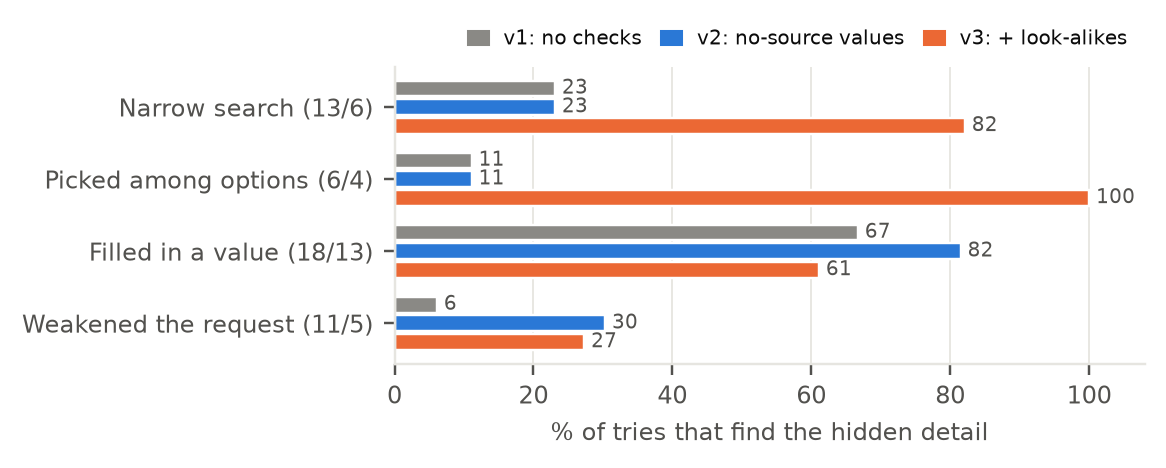
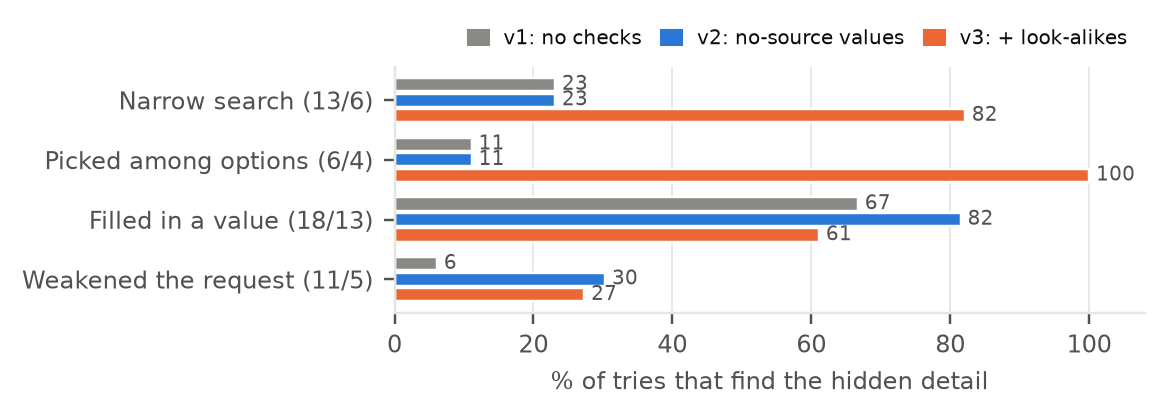
Figure 1: shorter, to match the report

diff --git a/analysis/midway_figures.py b/analysis/midway_figures.py
@@ -41,7 +41,7 @@ def failure_modes():
              "WEAKENED": "Weakened the request"}
     groups = [("none", "v1: no checks", V1), ("unsourced", "v2: no-source values", V2),
               ("alternatives", "v3: + look-alikes", V3)]
-    fig, ax = plt.subplots(figsize=(4.4, 1.75))
+    fig, ax = plt.subplots(figsize=(4.4, 1.45))
     h = 0.26
     modes = list(names)
     for i, m in enumerate(reversed(modes)):
